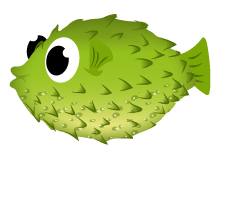
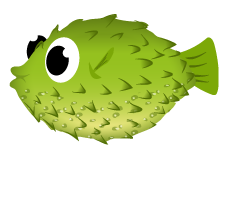
added animations

Changed region(s): [[0.8133, 0.1818, 0.9295, 0.4848], [0.3485, 0.2424, 0.4647, 0.3939], [0.7552, 0.2424, 0.7842, 0.303]]

diff --git a/Game/Entities/Pufferfish.js b/Game/Entities/Pufferfish.js
@@ -1,15 +1,85 @@
-import MovableObject from "../Movable-Object.js";
+import Game from "../Game.js";
+import MovableObject from "../Moving-Object.js";
 
 export default class Pufferfish extends MovableObject {
 
-    height = 28;
-    y = 10 + Math.random() * 150;
-    x = 100 + Math.random() * 200;
     type = Math.floor(1 + Math.random() * 3)
-    
-    constructor() {
+    isBig = false
+
+    SWIM_ANIMATION = {
+        frames: 5,
+        path: '../assets/puffer/swim/' + this.type + '-'
+    }
+
+    SWIM_BIG_ANIMATION = {
+        frames: 5,
+        path: '../assets/puffer/swim-big/' + this.type + '-'
+    }
+
+    TRANSITION_ANIMATION = {
+        frames: 5,
+        path: '../assets/puffer/transition/' + this.type + '-'
+    }
+
+
+    /**
+     * constructor
+     */
+    constructor(x, y) {
         super();
 
-        this.loadImage('../assets/puffer/swim/1-' +  this.type + '.png');
+        this.game = new Game()
+
+        this.x = x
+        this.y = y
+
+        this.loadImage('../assets/puffer/swim/' +  this.type + '-0.png');
+        this.loadAnimation(this.SWIM_ANIMATION)
+        this.loadAnimation(this.TRANSITION_ANIMATION)
+        this.loadAnimation(this.SWIM_BIG_ANIMATION)
+
+        this.playAnimation(this.SWIM_ANIMATION)
+
+        setTimeout(() => {
+            this.getBig()
+        }, this.speed)
     };
+
+    getBig() {
+        this.isBig = true
+        this.playAnimation(this.TRANSITION_ANIMATION)
+
+        setTimeout(() => {
+            this.playAnimation(this.SWIM_BIG_ANIMATION)
+        },750)
+
+        setTimeout(() => {
+            this.getSmall()
+        },3000)
+    }
+
+    getSmall() {
+        this.big = false
+        this.playReverseAnimation(this.TRANSITION_ANIMATION, true)
+
+        setTimeout(() => {
+            this.playAnimation(this.SWIM_ANIMATION)
+        },750)
+
+        setTimeout(() => {
+            this.getBig()
+        },3000)
+    }
+
+    moveInCircle() {
+        let angle = (this.game.time.elapsed) * (0.5 + (this.speed / 10000))
+        let radius = 0.2
+
+        this.x += Math.cos(angle) * radius
+        this.y += Math.sin(angle) * radius
+    }
+
+    update() {
+        this.moveInCircle()
+    }
 };

diff --git a/Game/Object.js b/Game/Object.js
@@ -1,5 +1,6 @@
-export default class Object {
+import EventEmitter from "./Utils/EventEmitter.js";
 
+export default class Object{
     loadImage(path) {
         this.img = new Image();
         this.img.src = path;
@@ -14,4 +15,54 @@ export default class Object {
     adjustImageWidth(img) {
         this.width = this.img.width * (this.height / this.img.height);
     };
+
+    loadAnimation(animation) {
+        for(let i = 0; i < animation.frames; i++) {
+            animation.cache = []
+            let img = new Image()
+            img.src = animation.path + i + '.png'
+            animation.cache[i] = img
+            img.onload = function() {
+                animation.cache[i] = img
+            }
+        }
+    }
+
+    playAnimation(animation, reverse) {
+        this.currentFrame = 0
+        this.currentMaximumFrame = animation.currentAnimationTotalFrames
+        clearInterval(this.animationInterval)
+
+        let self = this
+        this.animationInterval = setInterval(() => {
+            if(animation.cache[self.currentFrame]) {
+                self.img = animation.cache[self.currentFrame]
+            }
+
+            if(self.currentFrame == animation.frames - 1) {
+                self.currentFrame = 0
+            } else {
+                self.currentFrame++
+            }
+        }, 150)
+    }
+
+    playReverseAnimation(animation, reverse) {
+        this.currentFrame = animation.frames
+        this.currentMinimumFrame = 0 
+        clearInterval(this.animationInterval)
+
+        let self = this
+        this.animationInterval = setInterval(() => {
+            if(animation.cache[self.currentFrame]) {
+                self.img = animation.cache[self.currentFrame]
+            }
+
+            if(self.currentFrame == 0) {
+                self.currentFrame = animation.frames
+            } else {
+                self.currentFrame--
+            }
+        }, 150)
+    }
 }

diff --git a/Game/World.js b/Game/World.js
@@ -1,14 +1,12 @@
 import BackgroundObject from "./Background-Object.js";
 import Character from "./Entities/Character.js";
-import Chicken from "./Entities/Pufferfish.js";
+import Pufferfish from "./Entities/Pufferfish.js";
 import Game from "./Game.js";
 
 export default class World {
     character = new Character();
-    enemies = [ 
-        new Chicken(),
-        new Chicken(),
-        new Chicken(),
+    pufferfishes = [ 
+        new Pufferfish(200, 80),
     ];
     background = [
         new BackgroundObject('./assets/landscape/bg/1.png', 0,),
@@ -31,11 +29,17 @@ export default class World {
 
         /**draw entities */
         this.game.drawer.drawAll(this.background);
-        this.game.drawer.drawAll(this.enemies);
+        this.game.drawer.drawAll(this.pufferfishes);
         this.game.drawer.draw(this.character);
 
+        /**update character */
         if(this.character) {
             this.character.update()
         }
+
+        /**update pufferfishes*/
+        this.pufferfishes.forEach(fish => {
+            fish.update()
+        })
     };
 };

diff --git a/Game/Entities/Character.js b/Game/Entities/Character.js
@@ -1,7 +1,8 @@
 import Game from "../Game.js";
-import MovableObject from "../Movable-Object.js";
+import KeyboardObject from "../Keyboard-Object.js";
+import EventEmitter from "../Utils/EventEmitter.js";
 
-export default class Character extends MovableObject {
+export default class Character extends KeyboardObject {
 
     height = 110;
     y = 90;
@@ -24,6 +25,6 @@ export default class Character extends MovableObject {
     };
 
     update() {
-        this.y = Math.cos(this.game.time.elapsed / 1000) * 5
+        this.y = Math.cos(this.game.time.elapsed) * 5
     }
 };

diff --git a/Game/Game.js b/Game/Game.js
@@ -1,6 +1,7 @@
 import World from "./World.js";
 import Drawer from "./Drawer.js";
 import Time from './Utils/Time.js'
+import Events from "./Events.js";
 
 export default class Game {
 
@@ -17,6 +18,7 @@ export default class Game {
         this.canvas = canvas;
         this.time = new Time();
         this.drawer = new Drawer();
+        this.events = new Events()
         this.world = new World();
 
         this.update();

diff --git a/Game/Moving-Object.js b/Game/Moving-Object.js
@@ -1,0 +1,23 @@
+import Object from './Object.js'
+
+export default class MovableObject extends Object {
+    height = 28;
+    x = 0;
+    y = 0;
+    speed = Math.random() * 5000
+
+    constructor(x, y) {
+        super()
+
+        this.x = x
+        this.y = y
+    }
+
+    moveRight() {
+        console.log('Moving right');
+    };
+
+    moveLeft() {
+        console.log('Moving left');
+    };
+};

diff --git a/Game/Events.js b/Game/Events.js
@@ -1,0 +1,16 @@
+import EventEmitter from "./Utils/EventEmitter.js";
+
+export default class Events extends EventEmitter {
+    
+    constructor() {
+        super()
+
+        window.addEventListener('keydown', () => {
+            this.trigger('keydown')
+        })
+
+        window.addEventListener('keyup', () => {
+            this.trigger('keyup')
+        })
+    }
+}

diff --git a/Game/Keyboard-Object.js b/Game/Keyboard-Object.js
@@ -1,0 +1,19 @@
+import Game from "./Game.js"
+import Object from "./Object.js"
+
+export default class KeyboardObject extends Object{
+    LEFT
+    RIGHT
+
+    constructor() {
+
+        super()
+
+        this.game = new Game()
+
+        this.game.events.on('keyup', () => {
+            console.log(event)
+        })
+
+    }
+}

diff --git a/Game/Utils/Time.js b/Game/Utils/Time.js
@@ -40,7 +40,7 @@ export default class Time extends EventEmitter
         const current = Date.now();
 
         this.delta = current - this.current;
-        this.elapsed += this.playing ? this.delta : 0;
+        this.elapsed += (this.playing ? this.delta : 0) / 1000;
         this.current = current;
 
         if(this.delta > 60)

diff --git a/script.js b/script.js
@@ -1,3 +1,4 @@
 import Game from './Game/Game.js';
 
 const game = new Game(document.getElementById('canvas'));
+
